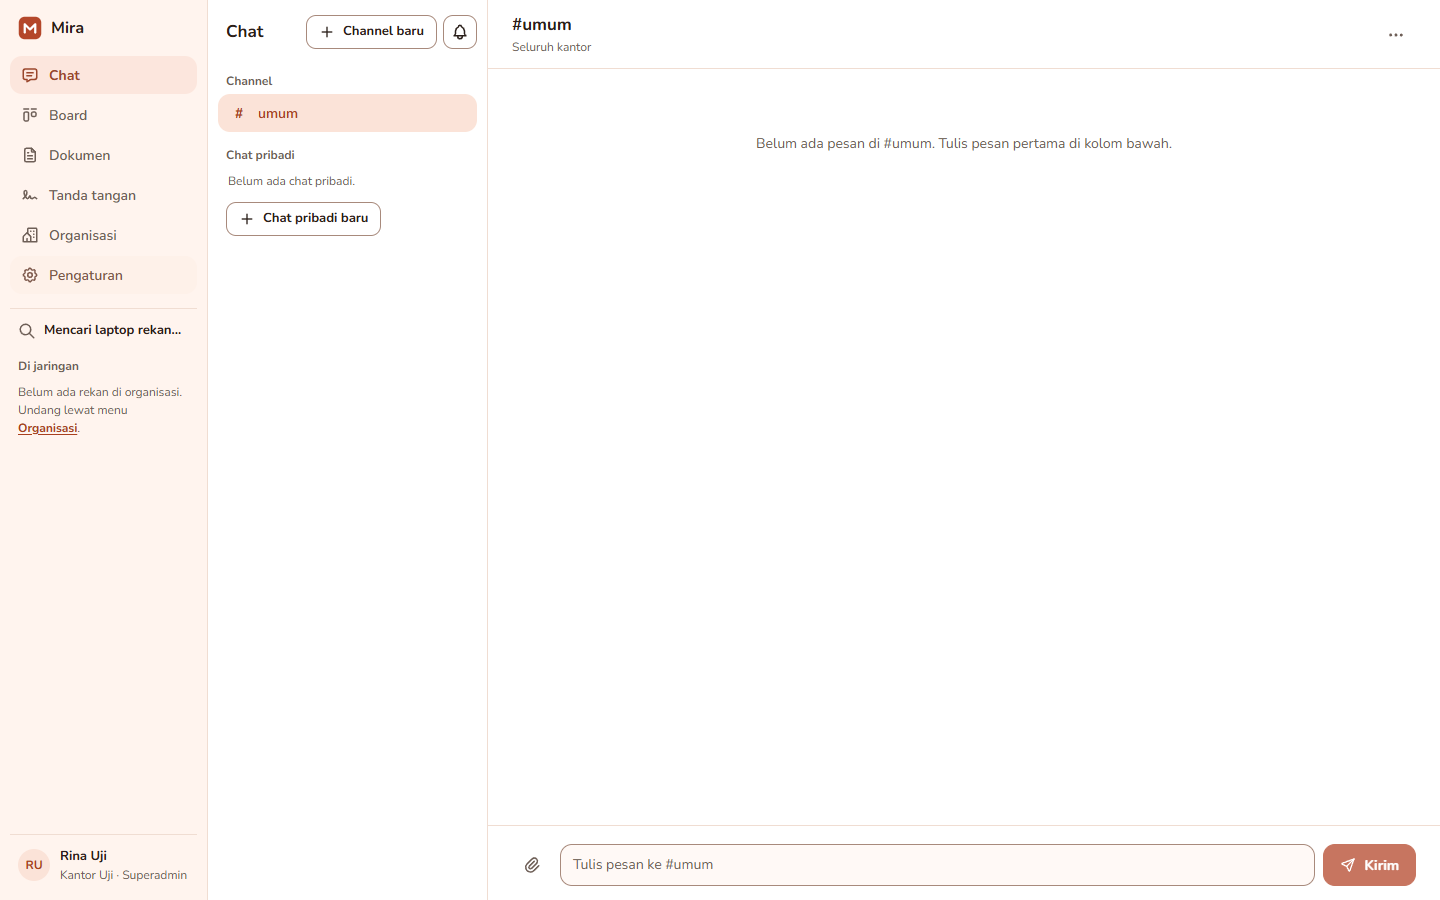
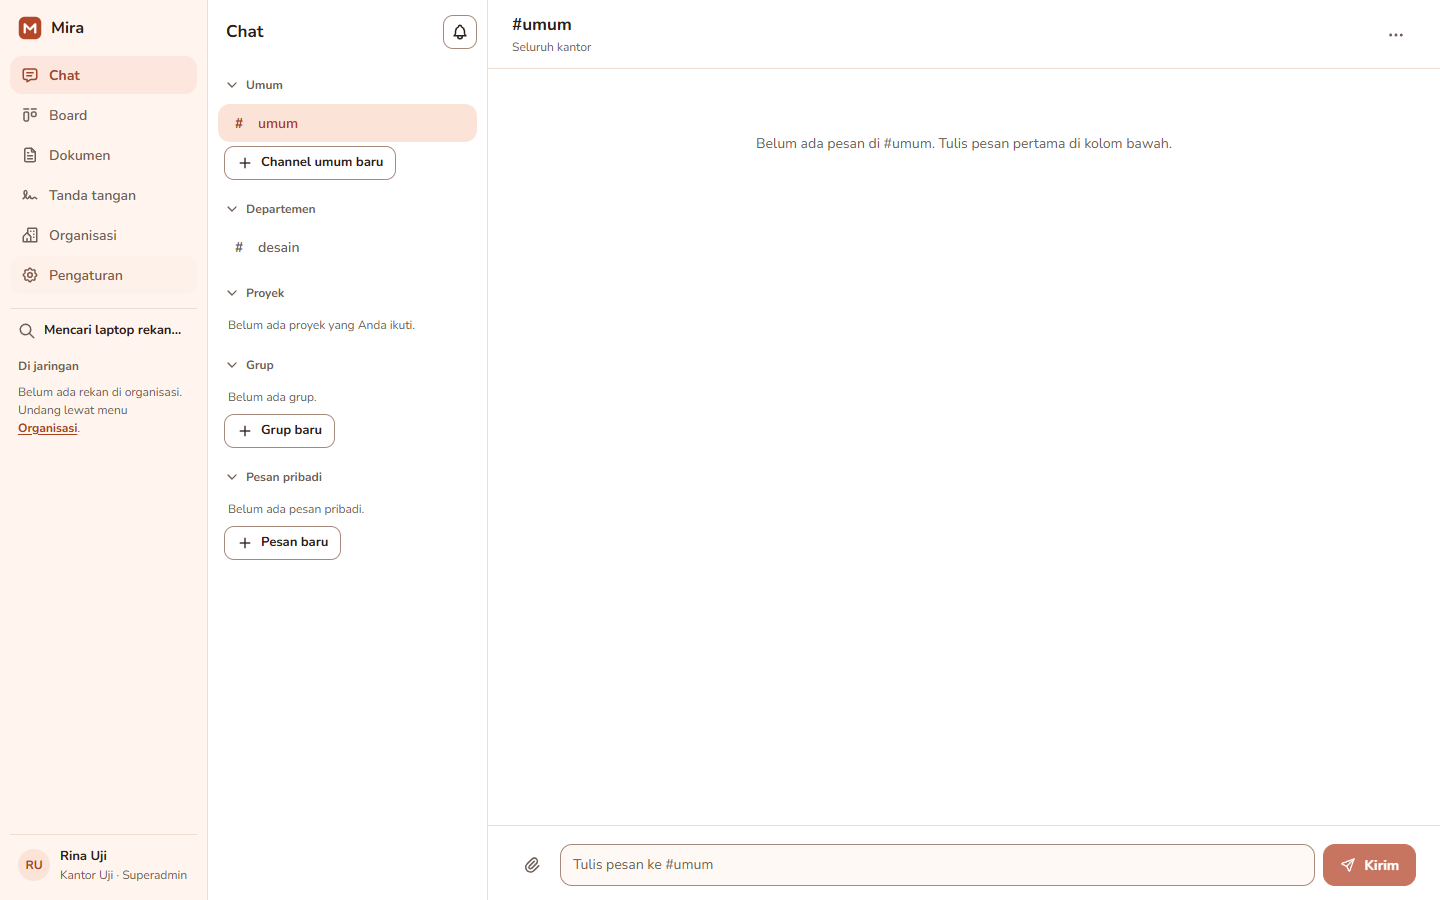
Laporan menu klik kanan Chat, screenshot, e2e cek tinggi panel, line ending LF dikembalikan

diff --git a/docs/progress/v04-ctx-chat.md b/docs/progress/v04-ctx-chat.md
@@ -1,0 +1,133 @@
+# Laporan: menu klik kanan Chat (v0.4)
+
+Branch `claude/v04-ctx-chat-639d02`, dari `integrasi-v04`. Rencana: `docs/plans/v04-ctx-chat.md`.
+
+Permintaan user: "buat click kanan pada app nya ada fungsinya, seperti kalau di chat, buat delete chat, dll u atur aja yang terbaiknya gimana".
+
+## Hasil
+
+- Menu klik kanan di pesan, lampiran, baris percakapan di sidebar, kepala percakapan, nama pengirim, dan daftar anggota grup atau proyek. Semuanya memakai komponen bersama `src/components/ContextMenu`.
+- Dialog profil baru ("Lihat profil"): nama dan label, peran, departemen, sidik jari kunci. Datanya dari `orgApi.people()`.
+- Tidak ada perintah Rust baru. Semua aksi memakai perintah yang sudah ada di `src/api/chat.ts` (`chat_mark_read` memang sudah per percakapan).
+- Setiap aksi tetap terjangkau tanpa klik kanan: lewat tombol "...", Shift+F10, atau tombol Menu di keyboard.
+
+## Isi menu
+
+Hak peran tidak diperluas. Item yang tidak boleh untuk saya tidak ditampilkan.
+
+**Pesan** (menu "Aksi untuk pesan <Nama|Anda> pukul HH.MM", plus tombol "..." di bilah aksi pesan)
+- Balas, hanya kalau saya bisa menulis di percakapan itu.
+- Salin teks, hanya kalau pesannya berisi teks. Hasilnya dibacakan ("Teks pesan disalin."). Kalau gagal, muncul pesan yang terlihat.
+- Sebut <nama>, untuk pesan orang lain yang masih anggota, kalau saya bisa menulis. `@Nama ` disisipkan di posisi kursor kolom pesan, dan tercatat sebagai mention saat dikirim.
+- Lihat status baca, untuk pesan sendiri yang punya penerima. Item ini membuka rincian per orang (siapa sudah membaca, menerima, atau dititipi).
+- Hapus pesan, hanya kalau `canDelete` (pesan sendiri, atau admin yang berhak). Memakai dialog konfirmasi yang sudah ada, dan hasilnya "Pesan dihapus".
+- Pesan yang sudah dihapus tidak punya menu.
+
+**Percakapan di sidebar** (menu "Aksi untuk <judul>"). Kepala percakapan berisi aksi yang sama tanpa Buka dan Tandai sudah dibaca. Kedua menu dibangun dari satu fungsi, `conversationMenuItems` di `conversationMenu.tsx`.
+- Semua jenis: Buka; Tandai sudah dibaca (hanya kalau ada yang belum dibaca); Bisukan atau Bunyikan.
+- Grup (masih anggota):
+  - Ganti nama dan Tambah orang: percakapan dibuka, lalu dialognya muncul begitu data grup termuat.
+  - Keluar dari grup: dengan konfirmasi.
+- Channel:
+  - Jadikan hanya-baca atau Buka untuk semua, khusus superadmin di channel Umum.
+  - Arsipkan channel atau Kembalikan dari arsip (`canArchive`).
+  - Hapus channel (`canDelete`, bukan #umum), dengan konfirmasi.
+- Chat proyek: tidak bisa dihapus atau diarsip. Hanya arsip lama dari v0.3 yang bisa dikembalikan.
+- Pesan pribadi: tanpa "Hapus dari daftar", karena perintahnya tidak ada dan tidak dibuat baru.
+
+**Lampiran** (menu "Aksi untuk <file>", plus tombol "...")
+- Buka dan Simpan salinan untuk file yang sudah ada di laptop ini.
+- Unduh dari rekan (ukuran) untuk file besar yang belum diunduh.
+- Salin nama file, selalu ada.
+- Selama aksi lain berjalan, item nonaktif dengan alasan "Tunggu aksi lain selesai".
+- Tombol "Simpan" diganti namanya menjadi "Simpan salinan", sama dengan item menu.
+
+**Orang**: nama pengirim di pesan orang lain (berupa tombol yang tampil seperti nama), avatarnya, serta baris di daftar anggota grup dan chat proyek (tombol "Aksi untuk <nama>").
+- Kirim pesan pribadi, kalau saya bukan Tamu dan orang itu rekan aktif.
+- Sebut.
+- Lihat profil.
+- Keluarkan dari grup, hanya untuk pemilik grup, dengan konfirmasi.
+
+## Keputusan
+
+| Keputusan | Alasan |
+|---|---|
+| Kontrak bersama ditulis dulu (`ChatActions.tsx`, `menuText.ts`), lalu tiga bagian dikerjakan paralel | Pesan, sidebar, dan orang ada di file terpisah. Konteks `ChatActionsContext` (layar) dan `ConversationActionsContext` (percakapan) membuat menu orang bisa dipakai di mana saja tanpa meneruskan prop. |
+| `useGroupView` dipindah dari kepala percakapan ke panel percakapan | Kepala percakapan, daftar anggota, dan menu orang di pesan ("Keluarkan dari grup") memakai data grup yang sama. |
+| Baris sidebar tanpa tombol "..." | Tombol di dalam tombol baris tidak sah sebagai HTML, dan tombol tambahan per baris menggandakan jumlah perhentian Tab. Jalan tanpa klik kanan: Shift+F10 atau tombol Menu di baris, dan menu "..." di kepala percakapan berisi aksi yang sama. |
+| Arsipkan tanpa konfirmasi | Arsip bisa dikembalikan, dan menu kepala percakapan sejak v0.3 juga tanpa konfirmasi. Hapus channel, Keluar dari grup, Keluarkan, dan Hapus pesan tetap dengan konfirmasi. |
+| Ganti nama dan Tambah orang dari sidebar membuka percakapannya dulu | Dialog Tambah orang butuh data grup (kandidat). Kalau data grup gagal dimuat, kepala percakapan menampilkan "Data grup belum bisa dimuat" dengan Coba lagi dan Batal. Permintaan tidak dibuang diam-diam. |
+| Fokus dipindah setelah percakapan berganti karena aksi menu | Setelah Kirim pesan pribadi, fokus ke kolom pesan. Setelah Hapus channel atau Keluar dari grup pada percakapan yang terbuka, fokus ke judul percakapan berikutnya. Klik baris biasa dan pemuatan ulang data tidak memindahkan fokus. |
+| Balas disembunyikan kalau tidak bisa menulis | Sebelumnya tombol Balas di percakapan hanya-baca atau arsip mengisi kolom pesan yang tersembunyi, jadi tidak ada yang terjadi. |
+| Nama pengirim jadi tombol, sedangkan daftar anggota memakai tombol "..." | Di pesan, nama adalah tempat yang wajar untuk diklik. Di daftar anggota, nama memuat label profil, jadi tombol "..." terpisah lebih jelas untuk pembaca layar. |
+| Teks konfirmasi Keluar dari grup disatukan | Menu dan panel anggota sekarang memakai teks yang sama. Panel tahu kalau saya pemilik ("peran pemilik pindah ke anggota yang paling lama"), sedangkan menu memakai kalimat bersyarat karena data grup belum tentu termuat. |
+| Profil tanpa email, telepon, atau foto | Data itu tidak ada di Mira. Yang tampil hanya data organisasi yang sudah ada: peran, departemen, label, dan sidik jari kunci untuk verifikasi. |
+
+## Usulan (tidak dibuat, karena perintahnya belum ada)
+
+- **Edit pesan**: paling sering dibutuhkan setelah salah ketik. Perlu event baru di log chat (versi teks pesan) dan aturan siapa boleh mengedit.
+- **Sembunyikan pesan pribadi dari daftar**: daftar pesan pribadi terus bertambah. Perlu tanda lokal per percakapan, mirip `muted`.
+- **Sematkan pesan**: berguna untuk info tetap di channel departemen atau proyek.
+- **Reaksi**: lebih rendah prioritasnya untuk kantor 10 sampai 30 orang.
+
+## Verifikasi
+
+| Uji | Hasil |
+|---|---|
+| `npx tsc --noEmit -p .` | bersih |
+| `npx vitest run src/screens/chat src/components` | 24 file, 344 tes lulus |
+| `npx vitest run` (seluruh repo) | 1 gagal, `src/screens/org/DepartmentsPanel.test.tsx` "bukan superadmin: klik kanan baris tidak membuka menu". Tes ini juga gagal di `integrasi-v04` tanpa perubahan sesi ini (dicek dengan stash), jadi bukan dari Chat. |
+| `cargo test`, clippy | tidak dijalankan, Rust tidak diubah |
+| `scripts/chat-e2e.mjs` | 39/39 lulus (build 962d9ff), termasuk pemeriksaan baru bahwa panel daftar dan percakapan mengisi tinggi jendela di mode terang dan gelap |
+| `scripts/e2e-fitur-multi.mjs` | 53/53 lulus (skrip tidak diubah) |
+
+Tes baru (Vitest):
+- `MessageMenu.test.tsx`, `FileMenu.test.tsx`, `ConversationMenu.test.tsx`, `PersonMenu.test.tsx`, `ProfileDialog.test.tsx`.
+- Tambahan di `ChatScreen.test.tsx` dan `Group.test.tsx`.
+
+Cakupan tes:
+- Klik kanan, Shift+F10 dari tombol Balas dan baris, panah, Enter, Esc dengan fokus kembali, dan tombol "..." dengan item yang sama.
+- Isi menu per hak (pesan sendiri, orang lain, dihapus; channel, grup, proyek, pesan pribadi; former, arsip, #umum; Tamu).
+- Konfirmasi.
+- Sebut menyisipkan `@Nama`.
+- Lihat status baca memuat rincian.
+- Fokus setelah Kirim pesan pribadi atau Hapus channel.
+- Error data grup dengan Coba lagi.
+
+Pemeriksaan baru di `chat-e2e` (klik kanan sungguhan, `click({ button: "right" })`):
+- Isi menu pesan sendiri.
+- Balas lewat menu: chip, lalu balasan dengan kutipan dan `replyTo` benar.
+- Salin teks: isi papan klip sungguhan.
+- Hapus pesan lewat menu, dengan konfirmasi, lalu "Pesan dihapus". Pesan yang sudah dihapus tidak punya menu.
+- Klik kanan di judul membuka menu aplikasi. Di area kosong, menu bawaan WebView tidak muncul.
+- Bisukan lalu Bunyikan dari baris sidebar: label baris dan `muted` di inti.
+- Shift+F10 di baris membuka satu menu dengan item pertama terfokus; Esc mengembalikan fokus ke baris.
+- Keluar dari grup khusus uji lewat menu baris, dengan konfirmasi. Grup satu orang tetap di daftar sebagai "bukan anggota lagi" (`former=true`, tidak bisa menulis).
+
+Screenshot (`docs/progress/screenshots/v04-ctx-chat/`): `01-menu-pesan-terang`, `02-menu-baris-sidebar-terang`, `03-konfirmasi-keluar-grup-terang`, `04-menu-pesan-gelap`, `05-menu-baris-sidebar-gelap`.
+
+Kontras: tidak ada pasangan warna baru. Token yang dipakai sama dengan menu bersama (teks pendukung di atas sorotan 5,03 terang dan 6,93 gelap; cincin fokus 4,47 dan 5,88). Mode `forced-colors`: pesan dan baris yang menunya terbuka mendapat garis `Highlight`.
+
+## Review terpisah
+
+Reviewer (aksesibilitas, tampilan, hak peran) menemukan 3 bug dan 5 saran. Semua bug diperbaiki dengan tes regresi:
+
+1. Wilayah error pesan pribadi menjadi anak ketiga grid `.chat`, sehingga tercipta baris grid kedua. Panel percakapan tidak mengisi tinggi jendela (e2e juga menemukannya: 739 dari 900 px). Wilayah itu sekarang ada di dalam `.chat-main` dan punya tombol Tutup.
+2. Ganti nama dan Tambah orang dari menu dibuang diam-diam kalau data grup gagal dimuat. Sekarang tampil error dengan Coba lagi dan Batal.
+3. Fokus jatuh ke body setelah Kirim pesan pribadi, Hapus channel, atau Keluar dari grup pada percakapan yang terbuka. Sekarang fokus pindah ke kolom pesan atau judul.
+
+Saran yang diambil:
+- Teks Keluar dari grup disatukan.
+- Teks Keluarkan di panel memakai `menuText`.
+- Kontrak dirapikan: teks yang tidak dipakai dihapus.
+- Teks gagal salin nama file dibuat khusus.
+- Tombol Simpan diganti "Simpan salinan".
+- Garis `forced-colors` untuk baris dan pesan yang menunya terbuka.
+
+## Batasan dan tindak lanjut (di luar file sesi ini)
+
+- `MenuPopup` (komponen bersama) mengasumsikan kontainer dialog punya CSS transform. Panel anggota grup dan proyek bukan `.dlg`, sehingga diberi `.member-pop { transform: translateZ(0) }` supaya posisi menu benar. Perbaikan sebenarnya ada di `MenuPopup`: geser posisi hanya kalau kontainernya punya transform.
+- `MenuPopup` menutup menu saat ada event scroll, termasuk gulir otomatis ketika pesan baru datang. Di channel yang ramai, menu pesan yang dibuka dengan Shift+F10 bisa langsung tertutup dan fokus jatuh ke body. Usul: abaikan gulir yang bukan dari pengguna, atau kembalikan fokus saat menutup.
+- `MenuConfirm` belum punya judul error sendiri. Error Keluarkan dari menu berjudul "Keluarkan dari grup gagal", sedangkan di panel "<nama> belum dikeluarkan".
+- `DepartmentsPanel.test.tsx` (Organisasi) gagal di `integrasi-v04` sebelum sesi ini.
+- Tempel atau salin di macOS belum diuji di Mac.
